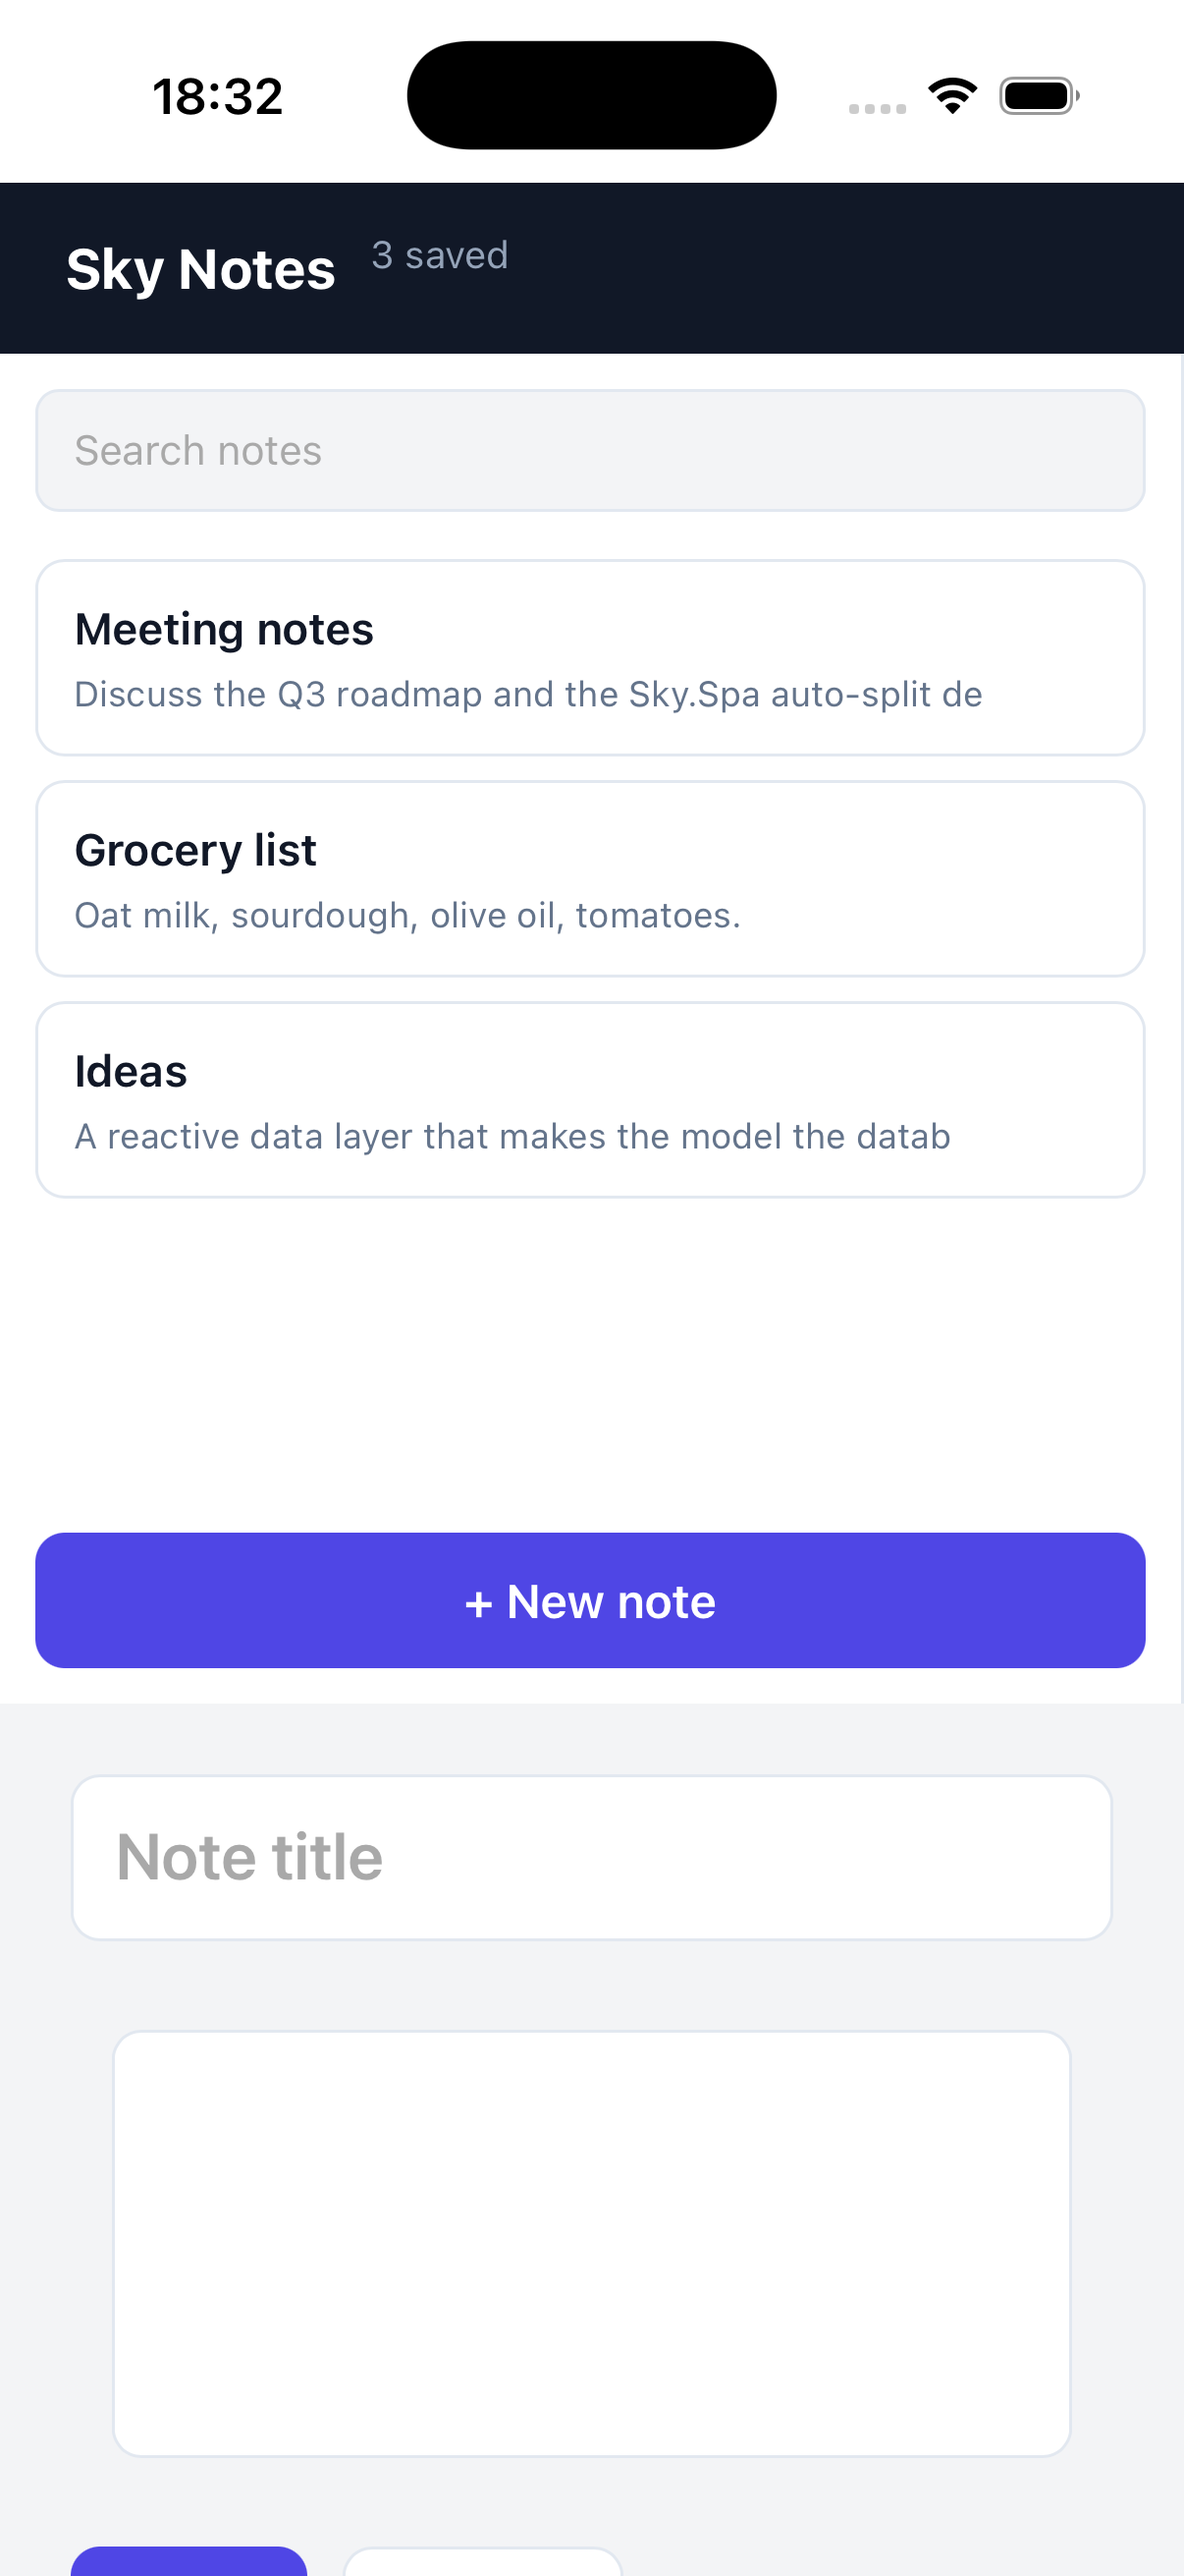
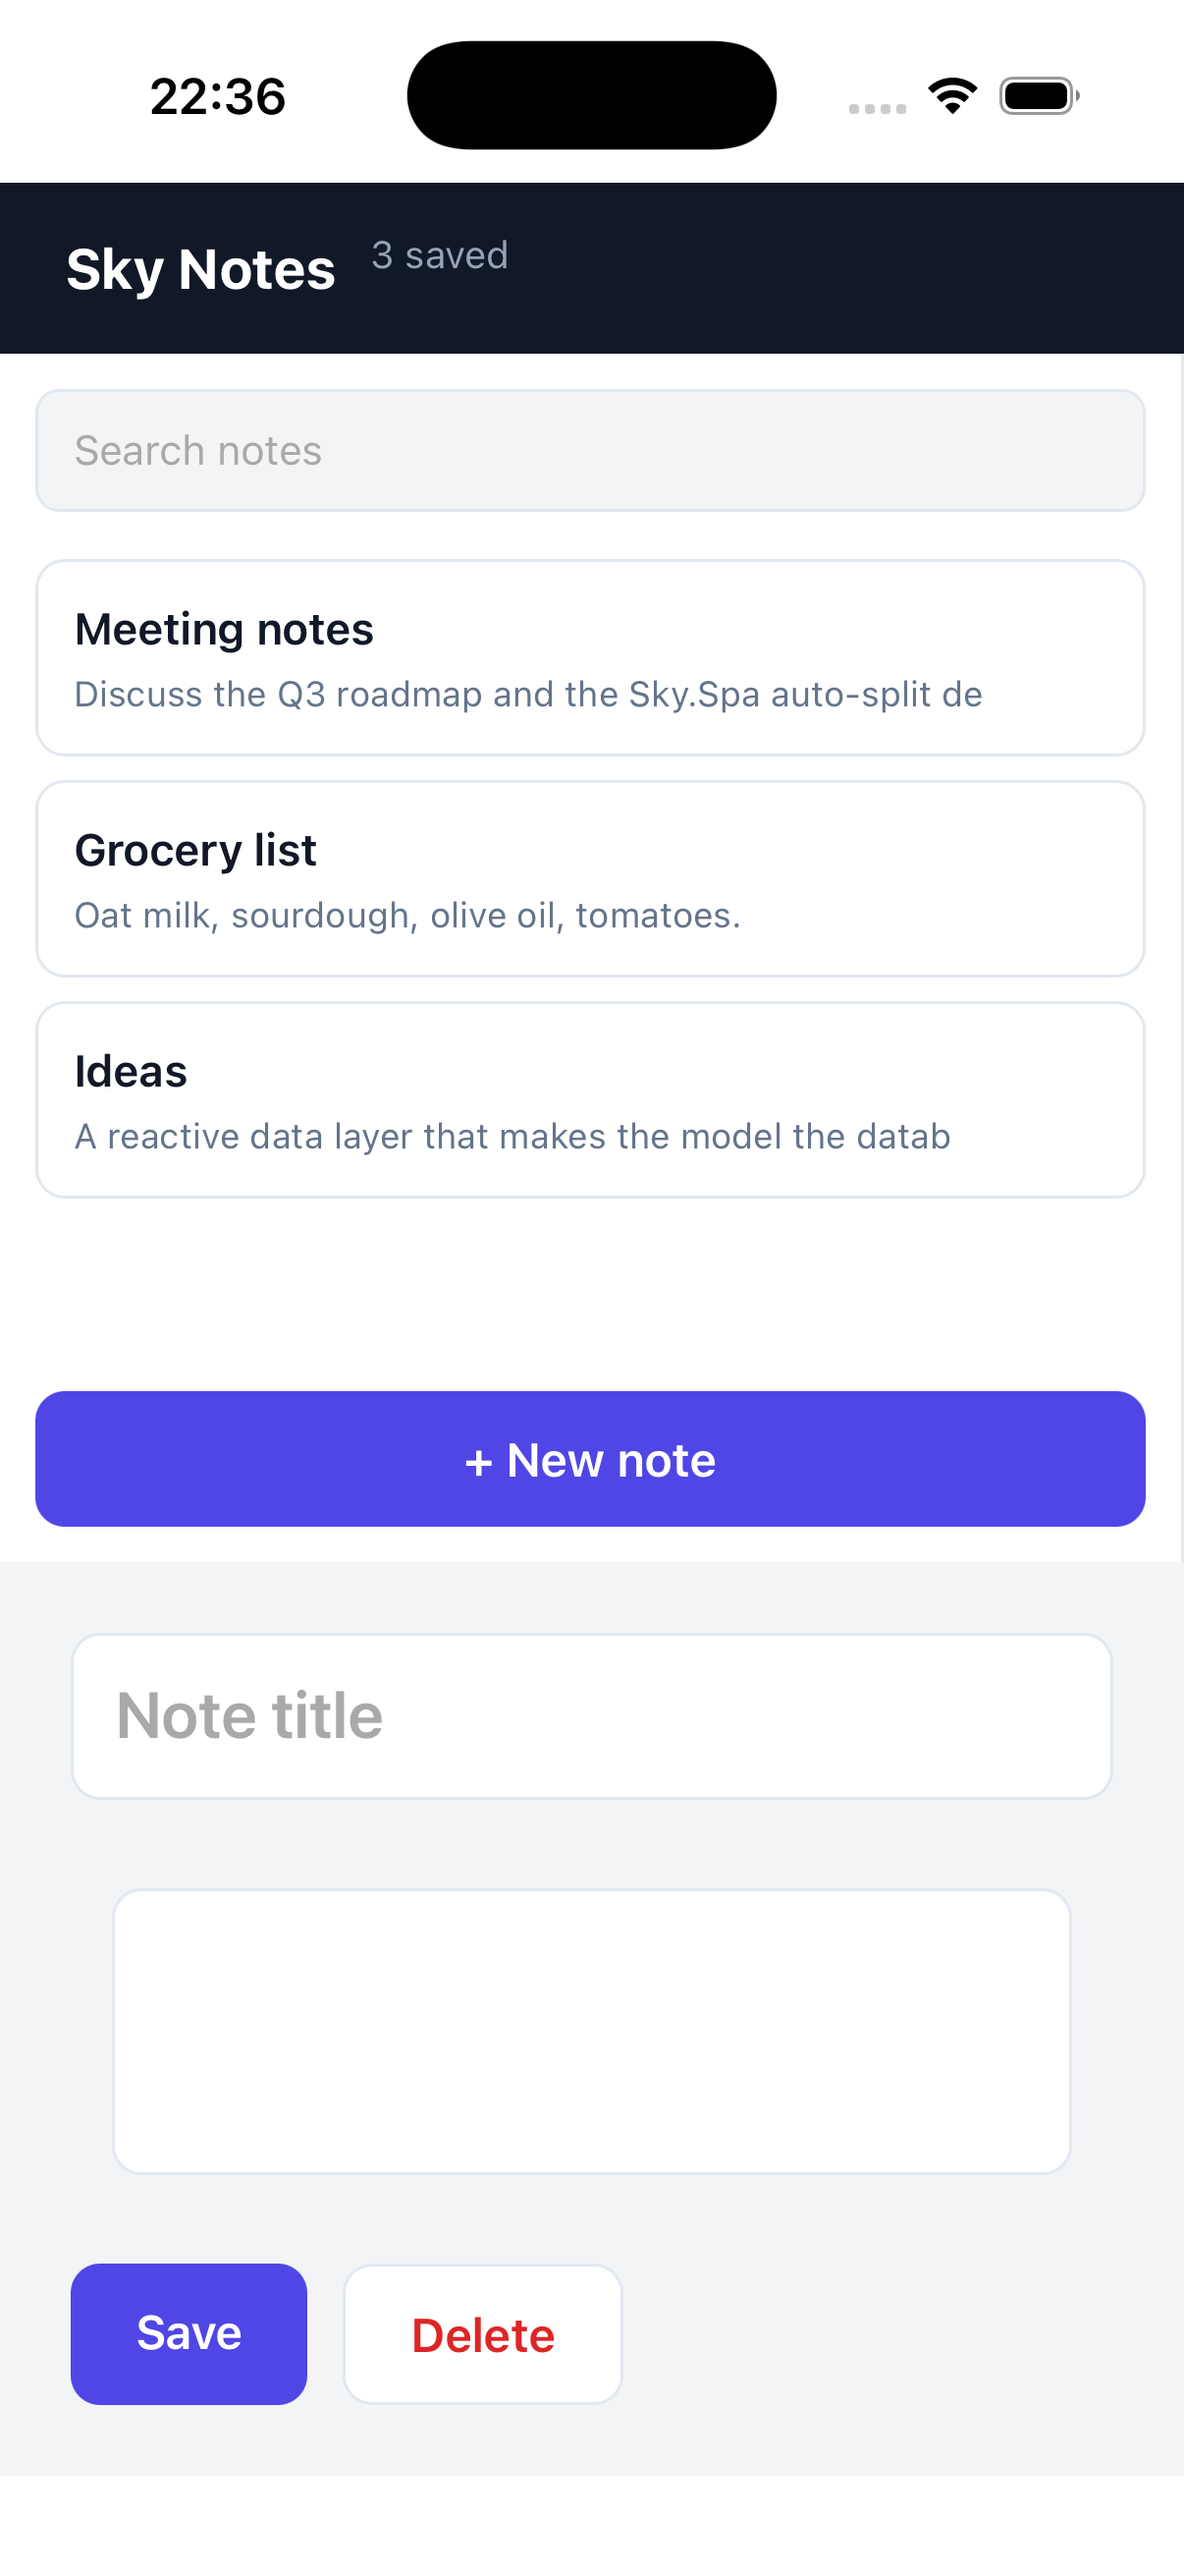
fix(spa): mobile layout no longer clips the bottom bar (notes + chat)
Two-part fix for content clipped below the phone viewport (the Save/Delete row
in notes, the composer in chat):

1. Web/layout: the app shell used `Ui.height (Ui.vh 100) + Ui.clip`, which pins
   the app to exactly one viewport and hides overflow — so when the panes stack
   on a narrow screen the bottom row fell off and was unreachable. Switch to
   `Ui.height Ui.fill` (fills the viewport when content is short, grows + lets the
   page flow when it isn't) and drop the shell clip. Verified: at 390x844 the
   Save/Send button is inside the viewport on both apps; desktop two-pane and the
   chat message-scroll are unchanged.

2. iOS shell: the generated `--target ios` WebView used `.ignoresSafeArea()`, so
   the full-screen WKWebView drew content under the status bar (header/clock
   overlap) AND under the home indicator (bottom row clipped). Change to
   `.ignoresSafeArea(.keyboard, edges: .bottom)` — respect the device safe areas,
   ignore only the keyboard inset. Now the header sits below the clock and the
   bottom row above the home indicator. (kanban already handled mobile via its
   own @media and is unchanged.)

Screenshots (web desktop/mobile + iOS) refreshed for notes + chat.

diff --git a/rust/crates/sky/src/main.rs b/rust/crates/sky/src/main.rs
@@ -1565,8 +1565,14 @@ struct {{NAME}}App: App {
 
     var body: some Scene {
         WindowGroup {
+            // Respect the device safe area (status bar / notch at the top, home
+            // indicator at the bottom) so the app's header sits below the clock
+            // and a bottom button/composer row is not clipped by the home
+            // indicator. Only the KEYBOARD safe area is ignored, so the web view
+            // keeps its own height when the keyboard appears (the page scrolls
+            // its own content) rather than being shoved upward.
             WebView(url: Self.appURL)
-                .ignoresSafeArea()
+                .ignoresSafeArea(.keyboard, edges: .bottom)
         }
     }
 }
